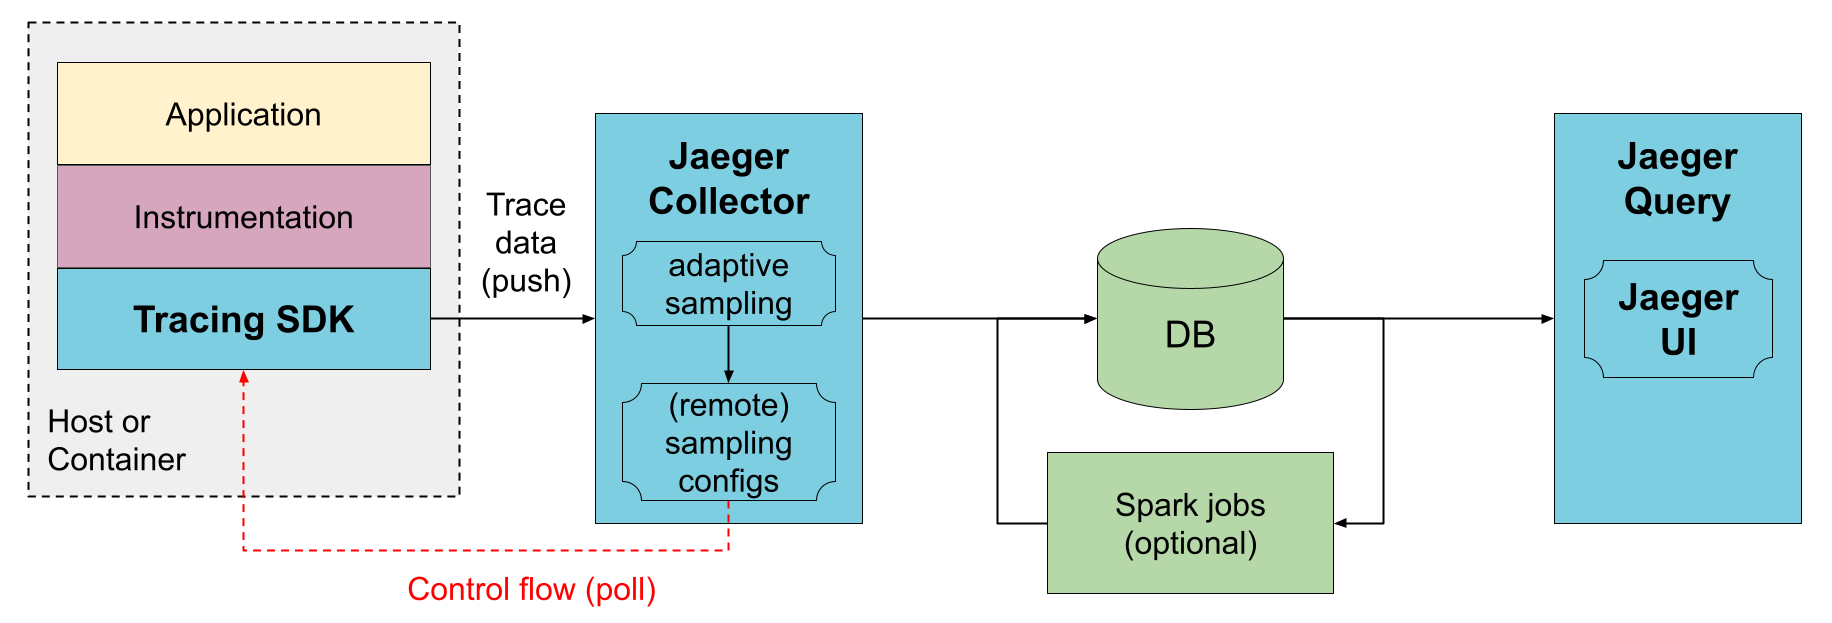
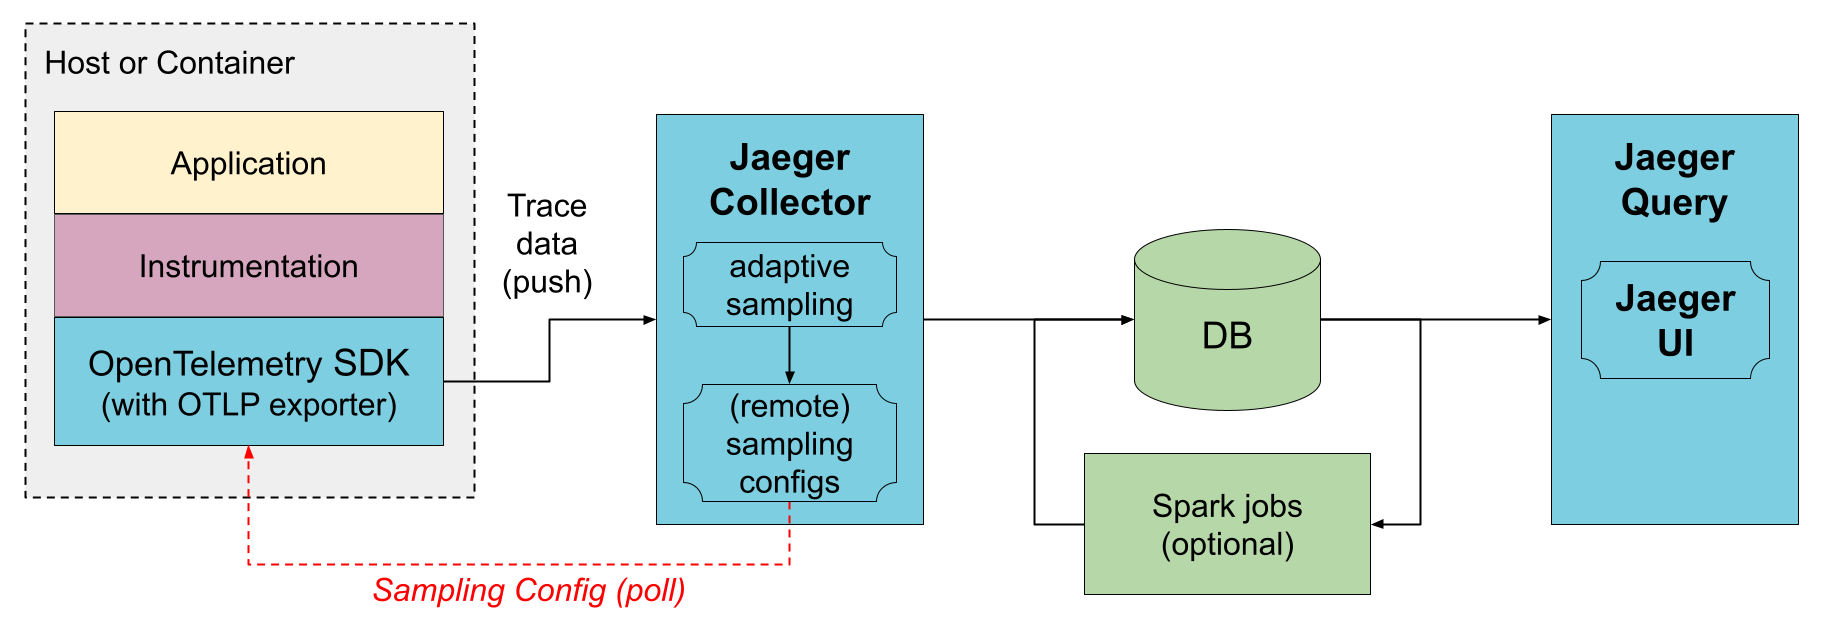
Update architecture diagrams to recommend OTEL SDK with OTLP

diff --git a/content/docs/1.49/architecture.md b/content/docs/1.49/architecture.md
@@ -52,9 +52,9 @@ To prevent data loss between collectors and storage, Kafka can be used as an int
 
 ![Architecture](/img/architecture-v2-2023.png)
 
-### With OpenTelemetry
+### With OpenTelemetry Collector
 
-The Jaeger Collectors can receive OpenTelemetry data directly from the OpenTelemetry SDKs. However, if you already use the OpenTelemetry Collectors, e.g. for gathering other types of telemetry or for pre-processing / enriching the tracing data, it can be placed between the SDKs and the Jaeger Collectors. The OpenTelemetry Collectors can be run as an application sidecar, as a host agent / daemon, or as a central cluster.
+The Jaeger Collectors can receive OpenTelemetry data directly from the OpenTelemetry SDKs (using OTLP exporters). However, if you already use the OpenTelemetry Collectors, e.g. for gathering other types of telemetry or for pre-processing / enriching the tracing data, it can be placed between the SDKs and the Jaeger Collectors. The OpenTelemetry Collectors can be run as an application sidecar, as a host agent / daemon, or as a central cluster.
 
 The OpenTelemetry Collector supports Jaeger's Remote Sampling protocol and can either serve static configurations from config files directly, or proxy the requests to the Jaeger backend (e.g., when using adaptive sampling).
 

diff --git a/content/docs/next-release/architecture.md b/content/docs/next-release/architecture.md
@@ -52,9 +52,9 @@ To prevent data loss between collectors and storage, Kafka can be used as an int
 
 ![Architecture](/img/architecture-v2-2023.png)
 
-### With OpenTelemetry
+### With OpenTelemetry Collector
 
-The Jaeger Collectors can receive OpenTelemetry data directly from the OpenTelemetry SDKs. However, if you already use the OpenTelemetry Collectors, e.g. for gathering other types of telemetry or for pre-processing / enriching the tracing data, it can be placed between the SDKs and the Jaeger Collectors. The OpenTelemetry Collectors can be run as an application sidecar, as a host agent / daemon, or as a central cluster.
+The Jaeger Collectors can receive OpenTelemetry data directly from the OpenTelemetry SDKs (using OTLP exporters). However, if you already use the OpenTelemetry Collectors, e.g. for gathering other types of telemetry or for pre-processing / enriching the tracing data, it can be placed between the SDKs and the Jaeger Collectors. The OpenTelemetry Collectors can be run as an application sidecar, as a host agent / daemon, or as a central cluster.
 
 The OpenTelemetry Collector supports Jaeger's Remote Sampling protocol and can either serve static configurations from config files directly, or proxy the requests to the Jaeger backend (e.g., when using adaptive sampling).
 
